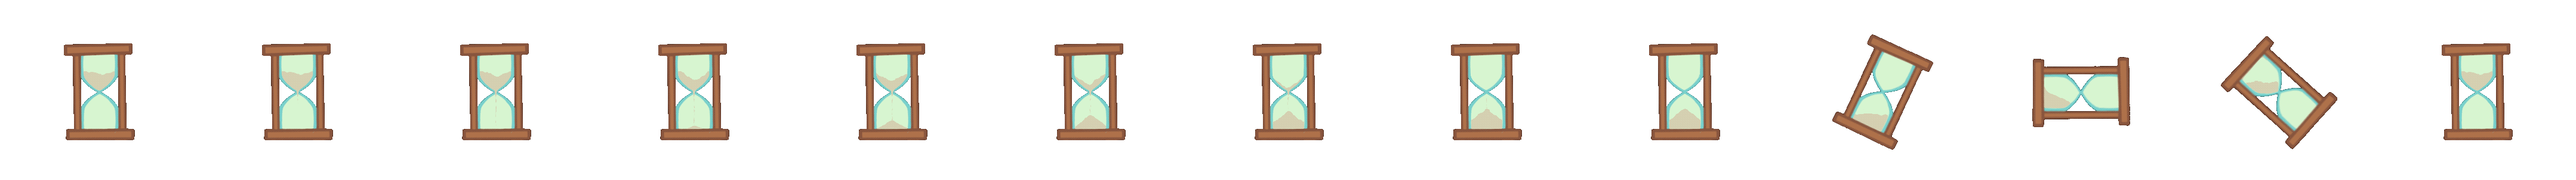
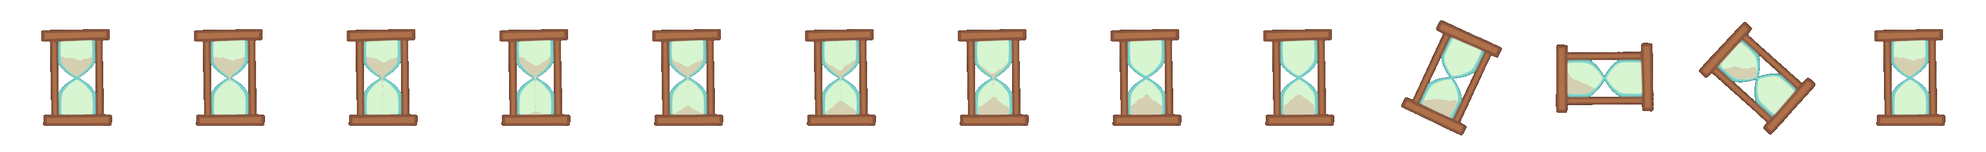
Assets added & Animation fix

diff --git a/src/main/resources/static/scenes/menu.js b/src/main/resources/static/scenes/menu.js
@@ -31,7 +31,7 @@ class Menu extends Phaser.Scene {
 		//Buttons
     	this.pancarta = this.add.image(0,0,'cartelImprovinci').setInteractive();
     	this.jugar_bt = this.add.image(0,0,'Play'+game.global.languageSuffix).setInteractive({cursor: 'pointer'});
-    	this.puntuaciones_bt = this.add.image(0,0,'Ready_host_es').setInteractive({cursor: 'pointer'});
+    	this.puntuaciones_bt = this.add.image(0,0,'Puntuaciones'+game.global.languageSuffix).setInteractive({cursor: 'pointer'});
     	this.tutorial_bt = this.add.image(0,0,'Ready_host_es').setInteractive({cursor: 'pointer'});
 		this.credits_bt = this.add.image(0,0,'Credits'+game.global.languageSuffix).setInteractive({cursor: 'pointer'});
 
@@ -136,7 +136,7 @@ class Menu extends Phaser.Scene {
 			game.global.languageSuffix = '_en';
 			localStorage.setItem('lang', '_en');
 			this.jugar_bt.setTexture('Play'+game.global.languageSuffix);
-    		this.puntuaciones_bt.setTexture('Ready_host_es');
+    		this.puntuaciones_bt.setTexture('Puntuaciones'+game.global.languageSuffix);
 			this.credits_bt.setTexture('Credits'+game.global.languageSuffix);
 		}, this);
 
@@ -150,7 +150,7 @@ class Menu extends Phaser.Scene {
 			game.global.languageSuffix = '_es';
 			localStorage.setItem('lang', '_es');
 			this.jugar_bt.setTexture('Play'+game.global.languageSuffix);
-    		this.puntuaciones_bt.setTexture('Ready_host_es');
+    		this.puntuaciones_bt.setTexture('Puntuaciones'+game.global.languageSuffix);
 			this.credits_bt.setTexture('Credits'+game.global.languageSuffix);
 		}, this);
 		this.cameras.main.fadeIn(200);
@@ -186,29 +186,29 @@ class Menu extends Phaser.Scene {
 		this.jugar_bt.y = game.canvas.height * 2.3 / 4;
 		this.jugar_bt.setScale(this.sY*0.9);
 
-    	this.puntuaciones_bt.x = game.canvas.width * 1.5 / 6;
+    	this.puntuaciones_bt.x = game.canvas.width * 1 / 6;
 		this.puntuaciones_bt.y = game.canvas.height * 2.3 / 4;
-		this.puntuaciones_bt.setScale(this.sY*0.9);
+		this.puntuaciones_bt.setScale(this.sY*0.6);
 
-    	this.tutorial_bt.x = game.canvas.width * 4.5 / 6;
+    	this.tutorial_bt.x = game.canvas.width * 5 / 6;
 		this.tutorial_bt.y = game.canvas.height * 2.3 / 4;
 		this.tutorial_bt.setScale(this.sY*0.9);
 
-    	this.credits_bt.x = game.canvas.width * 5.5 / 6;
-		this.credits_bt.y = game.canvas.height * 5.5 / 6;
-		this.credits_bt.setScale(this.sY*0.4);
+    	this.credits_bt.x = game.canvas.width * 5 / 6;
+		this.credits_bt.y = game.canvas.height * 5.2 / 6;
+		this.credits_bt.setScale(this.sY*0.45);
 		
     	this.pancarta.x = game.canvas.width / 2;
 		this.pancarta.y = game.canvas.height * 12 / 50;
 		this.pancarta.setScale(this.sY);
 		
-		this.spanishBtn.x = game.canvas.width * 8 / 10;
+		this.spanishBtn.x = game.canvas.width * 8.5 / 10;
 		this.spanishBtn.y = game.canvas.height * 0.8 / 8;
-		this.spanishBtn.setScale(this.sY*1.5);
+		this.spanishBtn.setScale(this.sY*1.3);
 
-		this.englishBtn.x = game.canvas.width * 9 / 10;
+		this.englishBtn.x = game.canvas.width * 9.5 / 10;
 		this.englishBtn.y = game.canvas.height * 0.8 / 8;
-		this.englishBtn.setScale(this.sY*1.5);
+		this.englishBtn.setScale(this.sY*1.3);
 
 		//Tutorial
 		this.tFondo.x = game.canvas.width /2;

diff --git a/src/main/resources/static/scenes/lobby.js b/src/main/resources/static/scenes/lobby.js
@@ -477,14 +477,14 @@ class Lobby extends Phaser.Scene {
             this.roomInfo.text+='Round time: '+roundTimeM+'\n';
             this.roomInfo.text+='Voting time: '+voteTimeM+'\n';
             if(isEnglish)
-                this.roomInfo.text+='Word bank language: English\n';
+                this.roomInfo.text+='Language: English\n';
             else
-                this.roomInfo.text+='Word bank language: Spanish\n';
+                this.roomInfo.text+='Language: Spanish\n';
             if(vowelsM)
                 this.roomInfo.text+='Visible vowels: Yes\n \n';
             else
                 this.roomInfo.text+='Visible vowels: No\n \n';
-            this.roomInfo.text+='GAMEMODES IN USE: \n';
+            this.roomInfo.text+='GAMEMODES: \n';
             if(defaultM)
                 this.roomInfo.text+='Normal \n';
             if(blindM)
@@ -504,14 +504,14 @@ class Lobby extends Phaser.Scene {
             this.roomInfo.text+='Tiempo ronda: '+roundTimeM+'\n';
             this.roomInfo.text+='Tiempo votación: '+voteTimeM+'\n';
             if(isEnglish)
-                this.roomInfo.text+='Banco de palabras: Inglés\n';
+                this.roomInfo.text+='Idioma: Inglés\n';
             else
-                this.roomInfo.text+='Banco de palabras: Español\n';
+                this.roomInfo.text+='Idioma: Español\n';
             if(vowelsM)
                 this.roomInfo.text+='Vocales visibles: Si\n \n';
             else
                 this.roomInfo.text+='Vocales visibles: No\n \n';
-            this.roomInfo.text+='MODOS EN USO: \n';
+            this.roomInfo.text+='MODOS: \n';
             if(defaultM)
                 this.roomInfo.text+='Normal \n';
             if(blindM)
@@ -628,8 +628,8 @@ class Lobby extends Phaser.Scene {
         this.button_Options.y = game.canvas.height* 3 / 4;
         this.button_Options.setScale(this.sY);
 
-        this.button_back.x = game.canvas.width / 4;
-        this.button_back.y = game.canvas.height * 3 / 4;
+        this.button_back.x = game.canvas.width / 10;
+        this.button_back.y = game.canvas.height * 9 / 10;
         this.button_back.setScale(this.sY);
 
         //Background

diff --git a/src/main/resources/static/scenes/credits.js b/src/main/resources/static/scenes/credits.js
@@ -48,29 +48,29 @@ class Credits extends Phaser.Scene {
     scaler()
 	{
 		//Buttons
-    	this.return_credits_bt.x = game.canvas.width * 3/ 10;
-		this.return_credits_bt.y = game.canvas.height * 8 / 10;
+    	this.return_credits_bt.x = game.canvas.width * 1/ 10;
+		this.return_credits_bt.y = game.canvas.height * 9 / 10;
 		this.return_credits_bt.setScale(this.sY);
         
         //Developers
         this.RetratoBelenImg.x = game.canvas.width * 3/ 10;
-		this.RetratoBelenImg.y = game.canvas.height * 3 / 10;
+		this.RetratoBelenImg.y = game.canvas.height * 2 / 10;
         this.RetratoBelenImg.setScale(this.sY*0.9);
         
         this.RetratoMariaImg.x = game.canvas.width * 7/ 10;
-		this.RetratoMariaImg.y = game.canvas.height * 3 / 10;
+		this.RetratoMariaImg.y = game.canvas.height * 2 / 10;
 		this.RetratoMariaImg.setScale(this.sY*0.9);
         
-        this.RetratoPabloImg.x = game.canvas.width * 2/ 10;
-		this.RetratoPabloImg.y = game.canvas.height * 6 / 10;
+        this.RetratoPabloImg.x = game.canvas.width * 3/ 10;
+		this.RetratoPabloImg.y = game.canvas.height * 5 / 10;
 		this.RetratoPabloImg.setScale(this.sY*0.9);
 
-        this.RetratoImanolImg.x = game.canvas.width * 5/ 10;
-		this.RetratoImanolImg.y = game.canvas.height * 6 / 10;
+        this.RetratoImanolImg.x = game.canvas.width * 7/ 10;
+		this.RetratoImanolImg.y = game.canvas.height * 5 / 10;
 		this.RetratoImanolImg.setScale(this.sY*0.9);
         
-        this.RetratoTomasImg.x = game.canvas.width * 8/ 10;
-		this.RetratoTomasImg.y = game.canvas.height * 6 / 10;
+        this.RetratoTomasImg.x = game.canvas.width * 5/ 10;
+		this.RetratoTomasImg.y = game.canvas.height * 8 / 10;
 		this.RetratoTomasImg.setScale(this.sY*0.9);
         
 		//Background

diff --git a/src/main/resources/static/scenes/options.js b/src/main/resources/static/scenes/options.js
@@ -10,10 +10,15 @@ class Options extends Phaser.Scene {
 
     create() {
         
+		//Scale factors
+    	this.sX = game.canvas.width/game.global.WIDTH;
+        this.sY = game.canvas.height/game.global.HEIGHT;
+        
         this.bg = this.add.image(0,0,'finFondoO');
 
-    	this.return_options_bt = this.add.image(game.canvas.width*4/5 ,game.canvas.height*1/5,'Ronda_es').setInteractive({cursor: 'pointer'});
-    	
+    	this.return_options_bt = this.add.image(game.canvas.width/10 ,game.canvas.height*9/10,'salirBoton'+game.global.languageSuffix).setInteractive({cursor: 'pointer'});
+        this.tablaPuntuaciones = this.add.image(game.canvas.width/10 ,game.canvas.height*9/10,'TopScores'+game.global.languageSuffix).setInteractive({cursor: 'pointer'});
+        
     	this.return_options_bt.on('pointerdown', function (pointer){
 			this.cameras.main.fadeOut(200);
             this.cameras.main.once('camerafadeoutcomplete', function(camera) {
@@ -39,10 +44,32 @@ class Options extends Phaser.Scene {
                 }
             }
         }
+        this.scaler();
+
         this.cameras.main.fadeIn(200);
+
     }
     
     update() { 
+        if(this.sX != game.canvas.width/game.global.WIDTH || this.sY != game.canvas.height/game.global.HEIGHT)
+		{
+			this.sX = game.canvas.width/game.global.WIDTH;
+			this.sY = game.canvas.height/game.global.HEIGHT;
+			this.scaler();
+		}
+    }
 
+    scaler()
+    {
+
+
+        //Background
+        this.bg.x = game.canvas.width / 2;
+		this.bg.y = game.canvas.height / 2;
+		this.bg.setScale(Math.max(this.sY));
+
+		this.bg.x = game.canvas.width / 2;
+		this.bg.y = game.canvas.height / 2;
+		this.bg.setScale(Math.max(this.sX, this.sY));
     }
 }

diff --git a/src/main/resources/static/scenes/preloader.js b/src/main/resources/static/scenes/preloader.js
@@ -40,8 +40,8 @@ class Preloader extends Phaser.Scene {
 
 		this.load.spritesheet('TimeAnim', 'assets/interface/Tiempo.png',
 			{
-				frameWidth: 332,
-				frameHeight: 303
+				frameWidth: 256,
+				frameHeight: 256
 			});
 		this.load.image('Menu', 'assets/backgrounds/Menu.png');
 		this.load.image('cartelImprovinci', 'assets/interface/Pancarta.png');
@@ -182,16 +182,15 @@ class Preloader extends Phaser.Scene {
 		this.load.image('tFondo2', 'assets/interface/tFondo2.png');
 		this.load.image('tFondo3', 'assets/interface/tFondo3.png');
 
+		//Puntuaciones
+		this.load.image('Puntuaciones_es', 'assets/interface/Puntuaciones_es.png');
+		this.load.image('Puntuaciones_en', 'assets/interface/Puntuaciones_en.png');
+		this.load.image('TopScores_es', 'assets/interface/TopScores_es.png');
+		this.load.image('TopScores_en', 'assets/interface/TopScores_en.png');
+
 	}
 
 	create() {
-		this.anims.create(
-			{
-				key: 'Clock_Anim',
-				frames: this.anims.generateFrameNumbers('TimeAnim'),
-				frameRate: 12,
-				repeat: -1
-			});
 	}
 
 	update() {

diff --git a/src/main/resources/static/scenes/preLobby.js b/src/main/resources/static/scenes/preLobby.js
@@ -508,8 +508,8 @@ class PreLobby extends Phaser.Scene {
         this.codeButton.y = game.canvas.height * 2.5 / 4;
         this.codeButton.setScale(this.sY);
 
-        this.button_back.x = game.canvas.width / 4;
-        this.button_back.y = game.canvas.height * 3 / 4;
+        this.button_back.x = game.canvas.width / 10;
+        this.button_back.y = game.canvas.height * 9 / 10;
         this.button_back.setScale(this.sY);
 
         //Background

diff --git a/src/main/resources/static/scenes/inGame.js b/src/main/resources/static/scenes/inGame.js
@@ -379,8 +379,8 @@ class InGame extends Phaser.Scene {
         this.roundText.y = game.canvas.height / 12;
         this.roundText.setScale(this.sY);
 
-        this.button_back.x = game.canvas.width / 4;
-        this.button_back.y = game.canvas.height * 3 / 4;
+        this.button_back.x = game.canvas.width / 10;
+        this.button_back.y = game.canvas.height * 9 /10;
         this.button_back.setScale(this.sY);
 
         //Doble confirmacion

diff --git a/src/main/resources/static/scenes/drawAvatar.js b/src/main/resources/static/scenes/drawAvatar.js
@@ -82,8 +82,8 @@ class DrawAvatar extends Phaser.Scene {
         this.button_clear.y = game.canvas.height / 4;
         this.button_clear.setScale(this.sY);
 
-        this.return_bt.x = game.canvas.width / 4;
-        this.return_bt.y = game.canvas.height * 3 / 4;
+        this.return_bt.x = game.canvas.width / 10;
+        this.return_bt.y = game.canvas.height * 9 / 10;
         this.return_bt.setScale(this.sY);
 
         //Background
